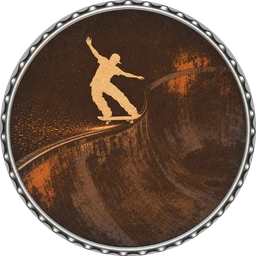
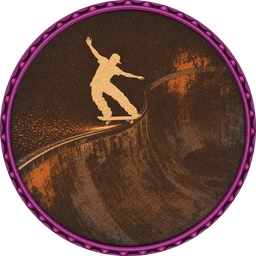
art: P1-лестница ободов закрыта — 02-4/02-2/03-3 дочинены зонально
- scripts/art-rim-fix.py: правка только пояса обода 92–100 % R (перо внутрь
  1.5 %), фактура и сюжет не тронуты; оригиналы raw/{…}_v4.png
- 02-4 Epic: серый s3.9 → маджента-эмаль #76285E s66 (семейство 56–76)
- 02-2 Rare: розовый s49.5 → нейтральная сталь #6E696C s4 (семейство 0.3–10)
- 03-3 Rare+: серый s2.6 → бензин #577079 s28 h196 (как 01-3 s42/h204)
- после правки все 8 материалов §3 читаются по ободу во всех районах
  (QA-таблица в отчёте); производные синхронизированы (webp ×6, экспорты
  3 чипов, инвентаризация+QA перегнаны)
- PORTAL_CHECKLIST: скриншоты — единственный оставшийся медиа-пункт стора;
  CDN браузеров в песочнице заблокированы (playwright+puppeteer проверены),
  владельцу добавлена инструкция снятия с локальной сборки 1080×1920

Changed region(s): [[0.0, 0.0, 1.0, 1.0]]

diff --git a/scripts/art-rim-fix.py b/scripts/art-rim-fix.py
@@ -1,0 +1,75 @@
+#!/usr/bin/env python3
+"""P1 rim-ladder fix (docs/07-art-spec.md §3) — one-shot, zone-limited.
+
+Three chips whose rim material violates the §3 ladder:
+  02-4  Epic      rim is gray  (s 3.9)  -> magenta enamel  (family s 44–72)
+  02-2  Rare      rim is pink  (s 49.5) -> polished steel  (family s 0.3–1.8)
+  03-3  Rare+     rim is gray  (s 2.6)  -> steel petrol    (family s 23–29)
+
+Only the rim band (92–100 % of the disc radius, feathered 1.5 % inwards) is
+touched; the story zone and the per-pixel luminance texture are preserved.
+Pre-images: art_drafts/raw/{key}_v4.png (first run creates them).
+"""
+from __future__ import annotations
+
+import colorsys
+import math
+import os
+import shutil
+import sys
+
+from PIL import Image
+
+ROOT = os.path.dirname(os.path.dirname(os.path.abspath(__file__)))
+C, R = 1024.0, 896.0
+FEATHER = (0.905, 0.92)  # blend band inside the rim edge
+
+FIXES = {
+    '02-4': {'h': 0.885, 's': 0.66, 'vmul': 0.86},   # magenta enamel
+    '02-2': {'h': None,   's': 0.06, 'vmul': 1.00},  # neutral steel (desaturate)
+    '03-3': {'h': 0.545, 's': 0.28, 'vmul': 0.95},   # petrol
+}
+
+
+def w_of(rr: float) -> float:
+    """1 inside the rim band, feathered to 0 across FEATHER..(inwards)."""
+    if rr >= FEATHER[1]:
+        return 1.0
+    if rr <= FEATHER[0]:
+        return 0.0
+    return (rr - FEATHER[0]) / (FEATHER[1] - FEATHER[0])
+
+
+def main() -> int:
+    for key, p in FIXES.items():
+        src = os.path.join(ROOT, 'art_drafts', 'master', f'{key}.png')
+        bak = os.path.join(ROOT, 'art_drafts', 'raw', f'{key}_v4.png')
+        if not os.path.exists(bak):
+            shutil.copy(src, bak)
+        im = Image.open(src).convert('RGBA')
+        px = im.load()
+        for y in range(0, 2048):
+            for x in range(0, 2048):
+                rr = math.hypot(x + 0.5 - C, y + 0.5 - C) / R
+                if rr < FEATHER[0] or rr >= 1.0:
+                    continue
+                r, g, b, a = px[x, y]
+                if a != 255:
+                    continue
+                h, s, v = colorsys.rgb_to_hsv(r / 255, g / 255, b / 255)
+                if p['h'] is not None:
+                    h = p['h']
+                s2 = max(s, p['s']) if p['h'] is not None else p['s']
+                v2 = min(1.0, v * p['vmul'])
+                nr, ng, nb = colorsys.hsv_to_rgb(h, s2, v2)
+                w = w_of(rr)
+                px[x, y] = (round(r + (nr * 255 - r) * w),
+                            round(g + (ng * 255 - g) * w),
+                            round(b + (nb * 255 - b) * w), a)
+        im.save(src)
+        print(f'{key}: rim fixed (backup raw/{key}_v4.png)')
+    return 0
+
+
+if __name__ == '__main__':
+    sys.exit(main())

diff --git a/dapp-store/PORTAL_CHECKLIST.md b/dapp-store/PORTAL_CHECKLIST.md
@@ -44,9 +44,14 @@ filling it in doesn't do anything by itself, unlike the old config.yaml.
       `client/public/icon-512.png`, alpha checked pixel-wise)
 - [x] Banner 1200×600 PNG — `media/banner.png` (cropped from
       `art_drafts/site/banner-01.png`, Night Moth street scene)
-- [ ] Minimum 4 screenshots or videos, 1080p — take these from a real
-      device/emulator running the actual UI once art assets exist, not
-      mockups
+- [ ] Minimum 4 screenshots or videos, 1080p — the ONLY remaining media item.
+      The sandbox cannot run a browser (both playwright and puppeteer browser
+      CDNs are network-blocked), so these must come from the owner. Fastest
+      path, no device needed for a first pass: `npm run e2e:build` +
+      `npx vite preview` on client/dist, open Chrome devtools → device toolbar
+      → 1080×1920 on `/`, `/shop`, `/codex`, `/market`, capture each
+      (Ctrl+Shift+P → "Capture full size screenshot"). For submission,
+      prefer on-device captures of the same screens per media/README.txt.
 - [ ] Privacy policy / terms / copyright URLs (required fields — even a
       simple static page works, but they must resolve)
 - [ ] Signed APK path: `app/build/outputs/apk/release/app-release.apk`
